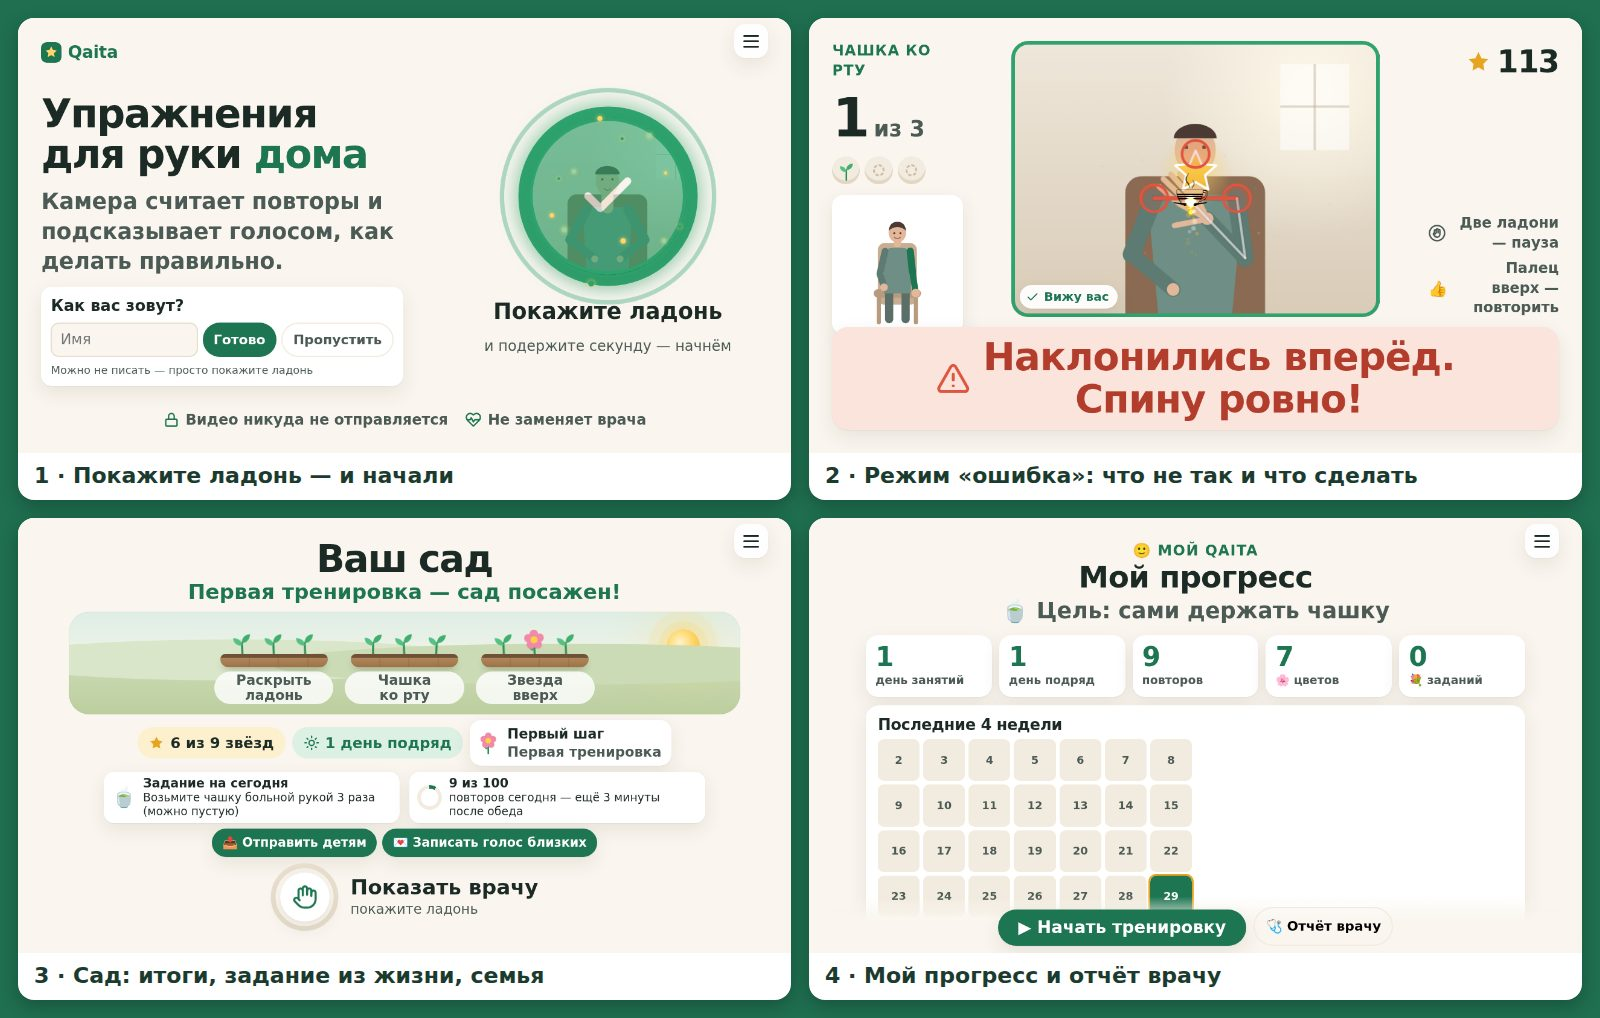
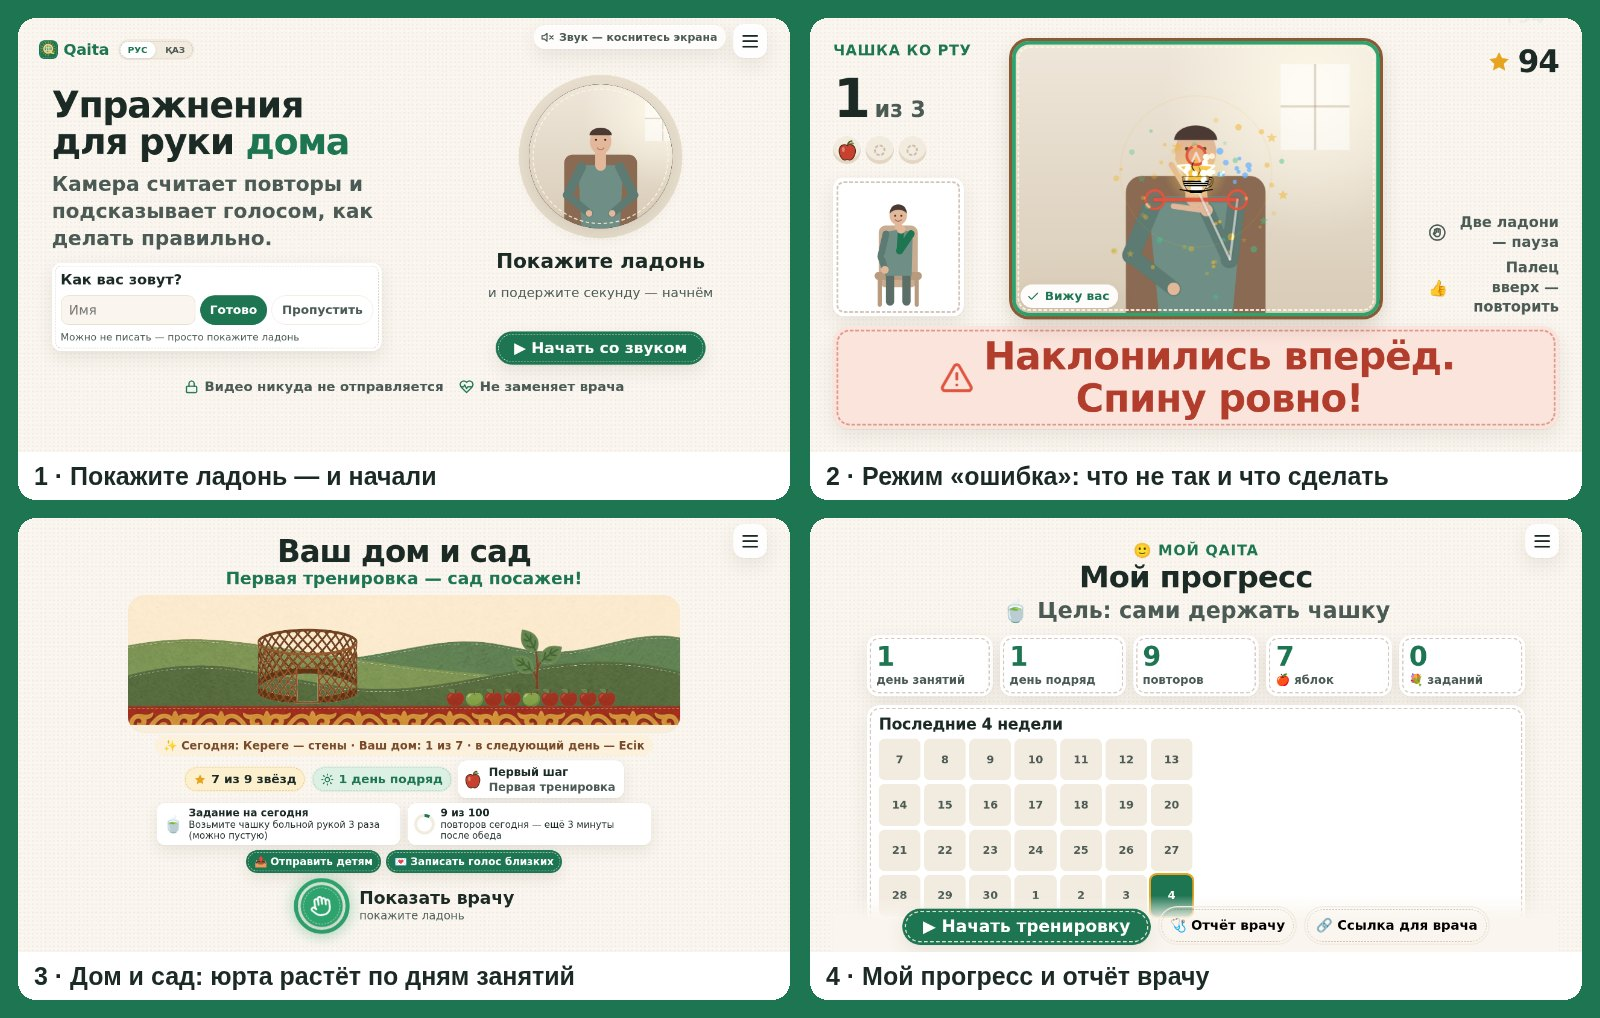
ui: felt style on every screen, decoration only — felt texture on the background, all camera frames get the brown felt rim and light stitching like the exercise screen, the palm ring and the round welcome camera get a circular stitch, cards, checklists, toasts, sheets, the menu and buttons get a das
Claude-Session: https://claude.ai/code/session_01SkGfGitcqUUa8BtGArW2SC

diff --git a/styles/felt.css b/styles/felt.css
@@ -1,0 +1,58 @@
+/* Войлок на всех экранах (вариант №1 «Войлок»): только украшение, раскладка и размеры не меняются.
+   - фон — фактура войлока (две мелкие россыпи точек);
+   - карточки, плашки и кнопки — «стёжка»: пунктирный outline с отрицательным отступом (внутри элемента, места не занимает);
+   - все рамки камеры — коричневая войлочная кромка и светлая стёжка, как на экране упражнения;
+   - фокус с клавиатуры остаётся заметным (золотая рамка поверх стёжки).
+   Подключается последним (src/ui/app.js), поэтому правила здесь главнее. */
+:root {
+  --stitch-dark: rgba(122, 75, 42, 0.3);
+  --stitch-light: rgba(255, 246, 228, 0.85);
+  --felt-rim: #8a5a36;
+}
+
+/* Фон: фактура войлока. */
+body {
+  background-image: radial-gradient(rgba(122, 75, 42, 0.07) 1px, transparent 1.5px), radial-gradient(rgba(255, 255, 255, 0.55) 1px, transparent 1.6px);
+  background-size: 7px 7px, 11px 11px;
+  background-position: 0 0, 3px 5px;
+}
+
+/* Рамки камеры (все экраны, кроме круглой камеры в кольце): кромка и стёжка — как .play-cam. */
+.cam:not(.ring-cam .cam) { box-shadow: 0 0 0 5px var(--felt-rim), 0 14px 34px rgba(80, 50, 20, 0.22); }
+.cam:not(.ring-cam .cam)::before {
+  content: ''; position: absolute; inset: 9px; z-index: 3; pointer-events: none;
+  border: 3px dashed var(--stitch-light); border-radius: calc(var(--radius) - 8px);
+}
+/* Круглая камера в кольце «ладонь» и сердцевина кольца — круговая стёжка. */
+.ring-cam::before {
+  content: ''; position: absolute; inset: 7px; z-index: 2; pointer-events: none;
+  border: 2.5px dashed var(--stitch-light); border-radius: 50%;
+}
+.ring-core { outline: 2px dashed var(--stitch-dark); outline-offset: -7px; }
+.ring[data-fired='true'] .ring-core { outline-color: var(--stitch-light); }
+
+/* Карточки и плашки — тёмная стёжка по краю. */
+.card, .stat, .demo-card, .rule, .rx-card, .sheet-card, .drawer-panel, .status-toast, .repeat-toast,
+.checkin-opt, .xdone-points, .hud-demo, .name-ask {
+  outline: 2px dashed var(--stitch-dark); outline-offset: -7px;
+}
+.pill, .goal-btn:not([data-saved='true']), .who-btn, .lang-switch {
+  outline: 1.5px dashed var(--stitch-dark); outline-offset: -5px;
+}
+
+/* Кнопки: на зелёной — светлая стёжка, на прозрачной — тёмная. */
+.btn-start, .btn-family, .page-actions .btn-start { outline: 2px dashed var(--stitch-light); outline-offset: -6px; }
+.btn-ghost { outline: 1.5px dashed var(--stitch-dark); outline-offset: -6px; }
+
+/* Фокус с клавиатуры: золотая рамка снаружи, как было. */
+:is(.btn-start, .btn-family, .btn-ghost, .goal-btn, .who-btn, .checkin-opt):focus-visible {
+  outline: 4px solid var(--gold, #f2b42a); outline-offset: 4px;
+}
+
+/* Телефон горизонтально: стёжка тоньше и ближе к краю. */
+@media (orientation: landscape) and (max-height: 520px) {
+  .cam:not(.ring-cam .cam)::before { inset: 6px; border-width: 2px; }
+  .ring-cam::before { inset: 5px; border-width: 2px; }
+  .card, .stat, .demo-card, .rule, .rx-card, .sheet-card, .drawer-panel, .checkin-opt, .xdone-points, .hud-demo { outline-width: 1.5px; outline-offset: -5px; }
+  .btn-start, .btn-family { outline-width: 1.5px; outline-offset: -4px; }
+}

diff --git a/src/ui/app.js b/src/ui/app.js
@@ -29,6 +29,7 @@ import { createMenu } from './menu.js';
 import { createMusic } from './music.js';
 import { screenIn, screenOut } from './motion.js';
 import '../../styles/phone.css'; // телефон: раскладки без ужимания (подключается последним — главнее остальных стилей)
+import '../../styles/felt.css'; // стиль «войлок»: стёжка, кромка камеры, фактура (только украшение, подключается самым последним)
 
 const SCREENS = { welcome, prep, checkin, hand, goal, progress, profile: profileScreen, about, safety, calibration, demo, play, 'exercise-done': exerciseDone, garden, doctor, soon, 'coach-voice': coachVoice };
 

diff --git a/README.md b/README.md
@@ -29,7 +29,7 @@
 </p>
 
 <p align="center">
-  <img src="docs/readme/qaita-collage.jpg" width="900" alt="Четыре экрана Qaita: приветствие «Покажите ладонь», подсказка «Наклонились вперёд. Спину ровно!» в упражнении «Чашка ко рту», сад с итогами и заданием дня, экран «Мой прогресс»">
+  <img src="docs/readme/qaita-collage.jpg" width="900" alt="Четыре экрана Qaita: приветствие «Покажите ладонь», подсказка «Наклонились вперёд. Спину ровно!» в упражнении «Чашка ко рту», «Ваш дом и сад» — войлочная юрта строится по дням занятий, экран «Мой прогресс»">
   <br><sub>Скриншоты сняты на <code>?mock=1</code> (виртуальный пациент вместо камеры), текущий <code>main</code>.</sub>
 </p>
 
